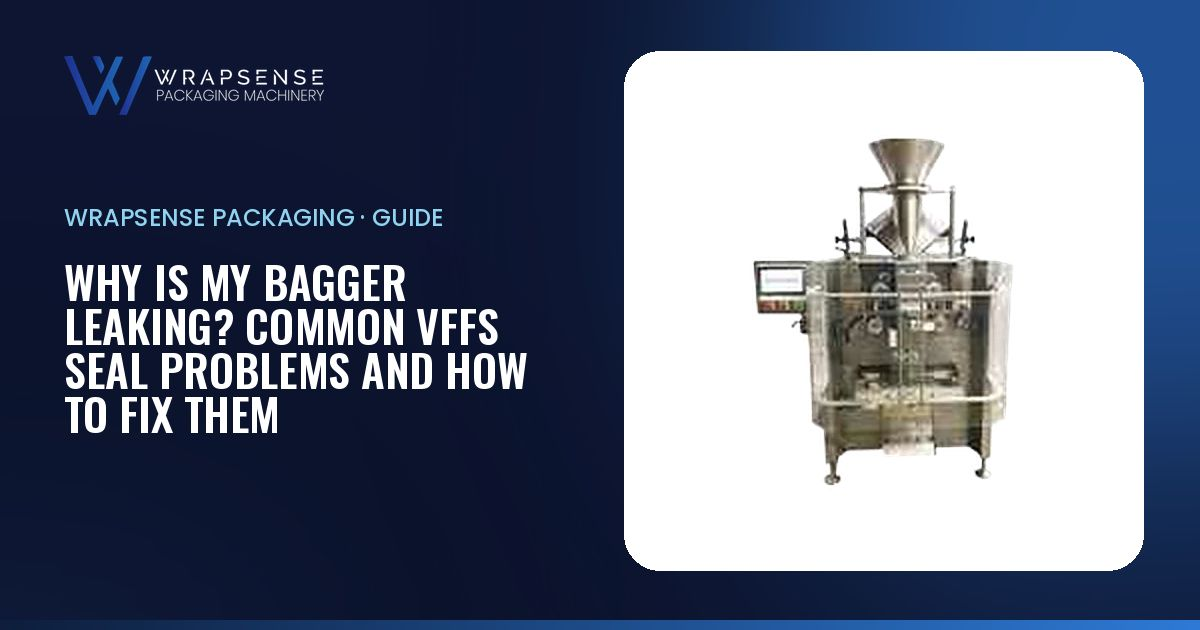
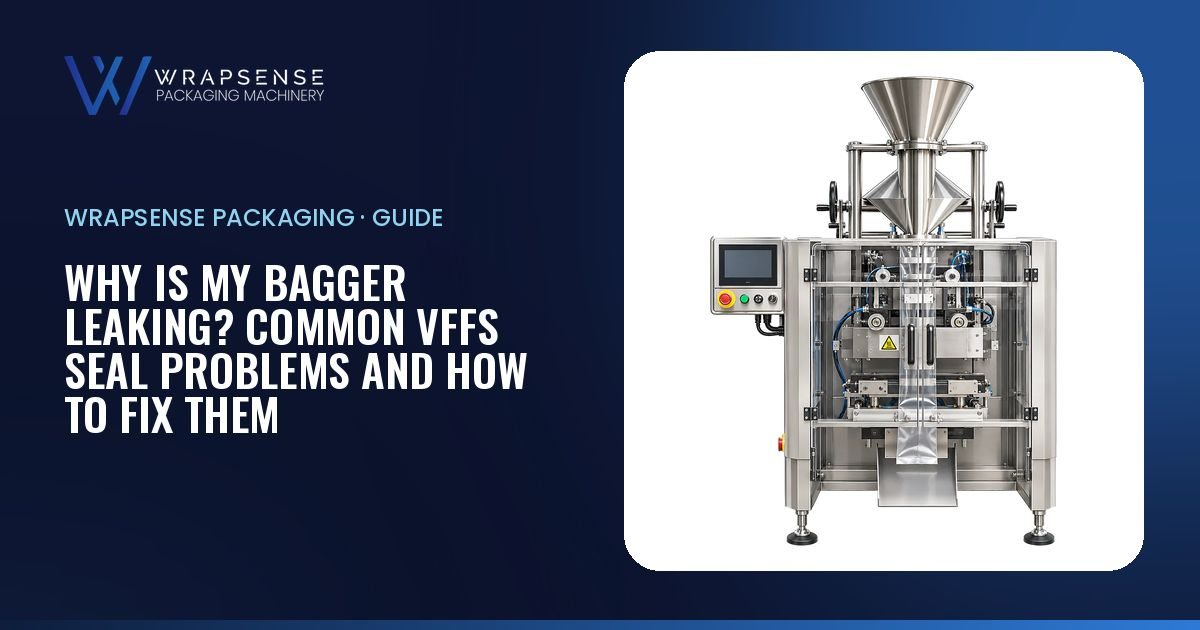
FastPack (intermittent): new render; blurry images removed
- New render cut out from white (edge flood; enclosed white gaps removed only where the AI mask agrees,
  so steel highlights on the hopper stay), 812x1100 WebP with alpha, 93 KB, as products/fastpack.webp;
  37 pages update (incl. the blog post that used the old main photo)
- Removed blurry images from the product: old main crop (63000), gallery crop (43000), old-site VFFS
  photo and the grainy weigher install photo; gallery now just the render (thumbs hide automatically)
- Deleted fastpack-63000/43000 and dropped them from the catalog extraction script; OG image regenerated

Claude-Session: https://claude.ai/code/session_01QFn2KCFGMPNr5c9DCf1rvZ

Changed region(s): [[0.5858, 0.1206, 0.8942, 0.8746]]

diff --git a/tools/extract-catalog-images.py b/tools/extract-catalog-images.py
@@ -10,8 +10,7 @@ pdf = sys.argv[1]
 # catalog image index -> (output folder, name, kind)
 # kind: cut = transparent machine/package cutout, photo = rectangular photo
 MAP = {
-  75:('products','fastpack-line','cut'), 83:('products','fastpack-43000','cut'),
-  81:('products','fastpack-63000','cut'),
+  75:('products','fastpack-line','cut'),
   89:('products','quickstick-eco','cut'), 91:('products','quickstick-pro','cut'), 93:('products','quickstick-pro-xl','cut'),
   103:('products','rapidbagger-compact','cut'), 105:('products','rapidbagger-inline','cut'),
   107:('products','rapidbagger-model-x','cut'), 109:('products','rapidbagger-sideload','cut'),
